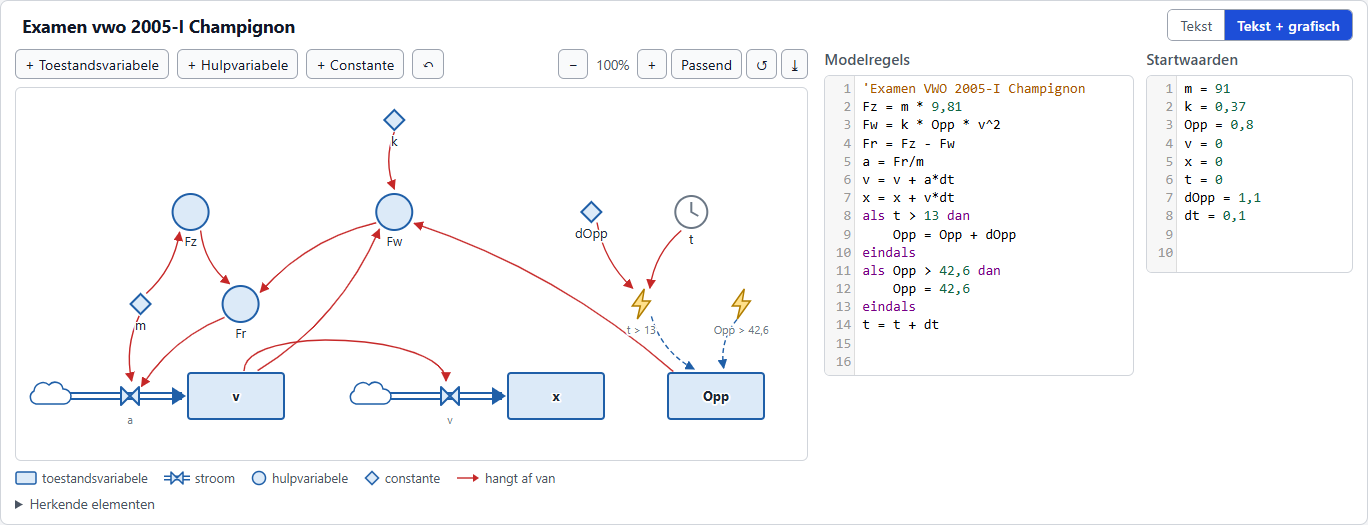
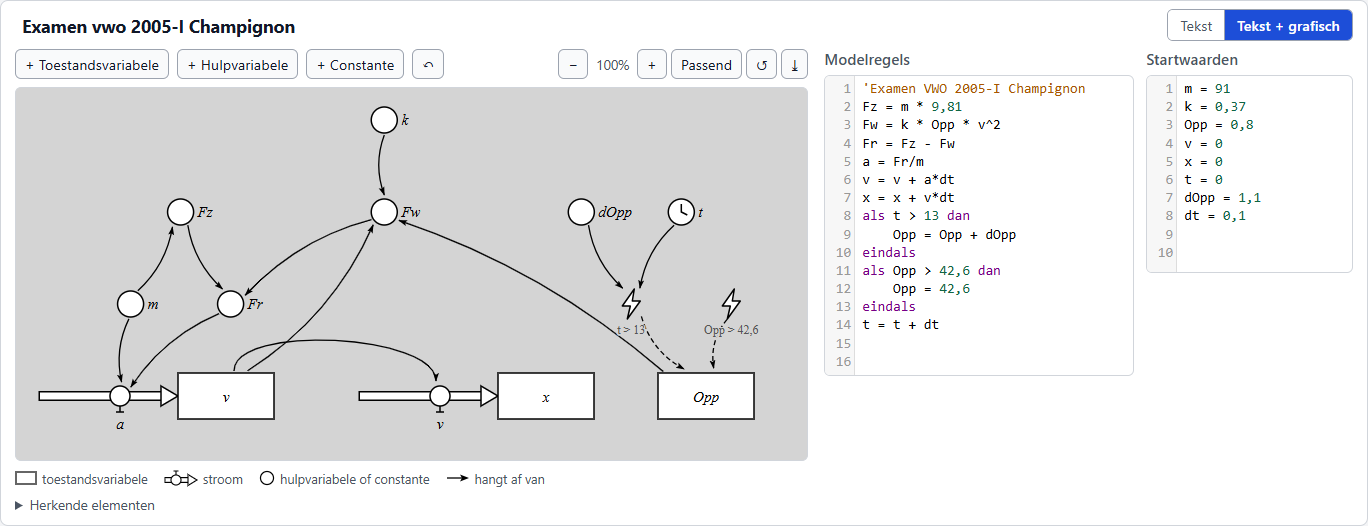
Grafisch model in examenstijl (vwo 2022-I, 2023-II)
De symbolen van het grafische model lijken nu op de figuren in de centrale
examens natuurkunde vwo in plaats van op Coach 7:

- grijze achtergrond, zwarte lijnen, witte symbolen
- toestandsvariabele: rechthoek zonder ronde hoeken, naam cursief erin
- stroom: holle pijl met open pijlpunt, geen wolkjes aan open uiteinden
- ventiel: cirkel met kraantje (kraantje onder als er een pijl van boven komt)
- hulpvariabele en constante: dezelfde cirkel, naam eronder (of rechts als
  een pijl aan de onderkant vertrekt of binnenkomt)
- relatiepijlen zwart met slanke pijlpunt

Legenda, README (tekst en screenshot) en CHANGELOG aangepast.

diff --git a/grafisch.js b/grafisch.js
@@ -1,9 +1,12 @@
 /*
     grafisch.js  (prototype)
 
-    Zet een tekstmodel (startwaarden + modelregels) om in een grafisch model,
-    zoals de grafische modus van Coach 7 (System Dynamics / stock-flow,
-    zie hoofdstuk 6 van de Coach 7 handleiding).
+    Zet een tekstmodel (startwaarden + modelregels) om in een grafisch model
+    (System Dynamics / stock-flow), getekend zoals de grafische modellen in de
+    centrale examens natuurkunde vwo (bijvoorbeeld 2022-I en 2023-II):
+    grijze achtergrond, toestandsvariabele als rechthoek, stroom als holle pijl
+    met een ventiel (cirkel met kraantje), hulpvariabelen en constanten als
+    cirkels met de naam eronder en zwarte relatiepijlen.
 
     Herkenning (Euler-vorm, zoals in de examenmodellen):
 
@@ -402,7 +405,7 @@ function analyse(startwaarden_ast, modelregels_ast) {
             if (d == dt) continue;
             if (d == time) showTime = true;
             else if (!elements.hasOwnProperty(idOf(d))) {
-                // Coach: element met vraagteken
+                // element met vraagteken
                 add({id: d, kind: 'unknown', name: d, definition: '? (geen startwaarde of formule)', deps: []});
             }
             var lk = idOf(d) + '>' + el.id;
@@ -759,7 +762,9 @@ function layout(g) {
 
 // ------------------------------------------------------------------ SVG
 
-var C = {blue: '#1f5fa8', fill: '#dceaf8', red: '#c62828', text: '#1d2733', grey: '#6b7785'};
+// examenstijl: zwart op wit, op een grijze achtergrond
+var C = {line: '#000', fill: '#fff', bg: '#d4d4d4', red: '#c62828', text: '#000', grey: '#555'};
+var R = {aux: 13, valve: 10};   // radius of the circles: hulpvariabele/constante and ventiel
 
 function esc(s) {
     return String(s).replace(/&/g, '&amp;').replace(/</g, '&lt;').replace(/>/g, '&gt;').replace(/"/g, '&quot;');
@@ -773,41 +778,50 @@ function radius(el, dx, dy) {
             var tx = Math.abs(dx) > 1e-9 ? (L.stockW / 2) / Math.abs(dx) : Infinity;
             var ty = Math.abs(dy) > 1e-9 ? (L.stockH / 2) / Math.abs(dy) : Infinity;
             return Math.min(tx, ty) * len + 3;
-        case 'flow': return 13;
-        case 'const': return 12;
+        case 'flow': return R.valve + 2;
         case 'event': return 16;
-        default: return 21;
+        default: return R.aux + 2;
     }
 }
 
-function cloud(x, y) {
-    return '<path d="M' + (x - 14) + ',' + (y + 8) +
-        ' a7,7 0 0,1 -2,-13 a9,9 0 0,1 15,-6 a8,8 0 0,1 14,4 a7,7 0 0,1 1,15 z"' +
-        ' fill="#fff" stroke="' + C.blue + '" stroke-width="1.5"/>';
+function pipeEnd(x, y) {
+    // the open end of a flow from or to outside the model (no cloud, as in the exams):
+    // an invisible area to drag it
+    return '<circle class="end" cx="' + x + '" cy="' + y + '" r="12" fill="#000" fill-opacity="0" stroke="none"/>';
 }
 
 function pipe(points, out) {
-    var d = 'M' + points[0].x + ',' + points[0].y;
-    for (var i = 1; i < points.length; i++) d += ' L' + points[i].x + ',' + points[i].y;
-    out.push('<path d="' + d + '" fill="none" stroke="' + C.blue + '" stroke-width="8" stroke-linejoin="round"/>');
-    out.push('<path d="' + d + '" fill="none" stroke="#fff" stroke-width="4" stroke-linejoin="round"/>');
-    // arrow head at the end
-    var p = points[points.length - 1], q = points[points.length - 2];
+    // hollow pipe (white with a black border) with an open arrow head at the end
+    var n = points.length, p = points[n - 1], q = points[n - 2];
     var ux = p.x - q.x, uy = p.y - q.y, l = Math.sqrt(ux * ux + uy * uy) || 1;
     ux /= l; uy /= l;
-    out.push('<path d="M' + (p.x + ux * 4) + ',' + (p.y + uy * 4) +
-        ' L' + (p.x - ux * 10 - uy * 9) + ',' + (p.y - uy * 10 + ux * 9) +
-        ' L' + (p.x - ux * 10 + uy * 9) + ',' + (p.y - uy * 10 - ux * 9) + ' z" fill="' + C.blue + '"/>');
+    var head = 17, half = 10;
+    var base = {x: p.x - ux * head, y: p.y - uy * head};
+    // closed start: the border goes a little further back than the white inside
+    var s0 = points[0], s1 = points[1];
+    var vx = s1.x - s0.x, vy = s1.y - s0.y, m = Math.sqrt(vx * vx + vy * vy) || 1;
+    var path = function(first) {
+        var d = 'M' + first.x.toFixed(1) + ',' + first.y.toFixed(1);
+        for (var i = 1; i < n - 1; i++) d += ' L' + points[i].x + ',' + points[i].y;
+        return d + ' L' + base.x.toFixed(1) + ',' + base.y.toFixed(1);
+    };
+    out.push('<path d="' + path({x: s0.x - vx / m * 1.5, y: s0.y - vy / m * 1.5}) +
+        '" fill="none" stroke="' + C.line + '" stroke-width="10" stroke-linejoin="round"/>');
+    out.push('<path d="' + path(s0) + '" fill="none" stroke="' + C.fill + '" stroke-width="7" stroke-linejoin="round"/>');
+    out.push('<path d="M' + p.x.toFixed(1) + ',' + p.y.toFixed(1) +
+        ' L' + (base.x - uy * half).toFixed(1) + ',' + (base.y + ux * half).toFixed(1) +
+        ' L' + (base.x + uy * half).toFixed(1) + ',' + (base.y - ux * half).toFixed(1) + ' z"' +
+        ' fill="' + C.fill + '" stroke="' + C.line + '" stroke-width="1.5" stroke-linejoin="miter"/>');
 }
 
 var LINK_STYLE = {
-    relation: 'stroke="' + C.red + '" stroke-width="1.4" marker-end="url(#ar)"',
+    relation: 'stroke="' + C.line + '" stroke-width="1.3" marker-end="url(#ar)"',
     // only in the condition of 'als ... dan': lighter
-    condition: 'stroke="' + C.red + '" stroke-width="1.1" stroke-opacity="0.45" stroke-dasharray="2 3" marker-end="url(#ar)"',
+    condition: 'stroke="' + C.line + '" stroke-width="1.1" stroke-opacity="0.45" stroke-dasharray="2 3" marker-end="url(#ar)"',
     // beginwaarde of a toestandsvariabele
     initial: 'stroke="' + C.grey + '" stroke-width="1.1" stroke-dasharray="4 3" marker-end="url(#ag)"',
     // voorval changes a toestandsvariabele
-    action: 'stroke="' + C.blue + '" stroke-width="1.4" stroke-dasharray="5 3" marker-end="url(#ab)"'
+    action: 'stroke="' + C.line + '" stroke-width="1.3" stroke-dasharray="5 3" marker-end="url(#ar)"'
 };
 
 function unit(a, b) {
@@ -841,20 +855,20 @@ function toSVG(g, lay, opts) {
         var a = f.from ? pos[f.from] : pos[f.id + ':src'];
         var b = f.to ? pos[f.to] : pos[f.id + ':dst'];
         var u0 = unit(a, v), u1 = unit(v, b);
-        var ra = f.from ? radius(g.elements[f.from], u0.x, u0.y) : 17;
-        var rb = f.to ? radius(g.elements[f.to], -u1.x, -u1.y) + 3 : 20;
+        var ra = f.from ? radius(g.elements[f.from], u0.x, u0.y) - 3 : 0;
+        var rb = f.to ? radius(g.elements[f.to], -u1.x, -u1.y) - 3 : 0;
         var start = {x: a.x + u0.x * ra, y: a.y + u0.y * ra}, end = {x: b.x - u1.x * rb, y: b.y - u1.y * rb};
         var straight = Math.abs(u0.x * u1.y - u0.y * u1.x) < 1e-3 && (u0.x * u1.x + u0.y * u1.y) > 0;
         pipe(straight ? [start, end] : [start, v, end], out);
         var ud = unit(a, b);
         valveDir[f.id] = Math.abs(ud.y) > Math.abs(ud.x) ? 'v' : 'h';
         if (!f.from) {
-            out.push('<g data-id="' + esc(f.id) + ':src">' + cloud(a.x, a.y) + '</g>');
-            grow(a.x, a.y, 22);
+            out.push('<g data-id="' + esc(f.id) + ':src">' + pipeEnd(a.x, a.y) + '</g>');
+            grow(a.x, a.y, 12);
         }
         if (!f.to) {
-            out.push('<g data-id="' + esc(f.id) + ':dst">' + cloud(b.x, b.y) + '</g>');
-            grow(b.x, b.y, 22);
+            out.push('<g data-id="' + esc(f.id) + ':dst">' + pipeEnd(b.x, b.y) + '</g>');
+            grow(b.x, b.y, 12);
         }
     }
 
@@ -885,6 +899,27 @@ function toSVG(g, lay, opts) {
         out.push('<path d="' + d + '" fill="none" ' + LINK_STYLE[lk.kind] + '/>');
     }
 
+    // a relatiepijl leaves or enters a circle at the bottom: its name goes to the right
+    // (otherwise below, as in the exams), so the arrow does not cross the name
+    var bottom = {}, above = {};
+    for (i = 0; i < g.links.length; i++) {
+        var from = pos[g.links[i].from], to = pos[g.links[i].to];
+        if (!from || !to) continue;
+        var dir = unit(from, to);
+        if (dir.y > 0.6) bottom[g.links[i].from] = true;
+        if (dir.y < -0.6) bottom[g.links[i].to] = true;
+        // an arrow between two symbols on the row of stocks and flows: arc from above
+        var row = function(e) { return e.kind == 'stock' || e.kind == 'flow'; };
+        if (dir.y > 0.3 || (row(g.elements[g.links[i].from]) && row(g.elements[g.links[i].to]) &&
+                            Math.abs(to.y - from.y) < 1)) above[g.links[i].to] = true;
+    }
+    var name = function(x, y, r, label, id) {
+        if (bottom[id]) grow(x + r + 4 + 8 * String(label).length, y, 4);
+        return bottom[id] ?
+            '<text x="' + (x + r + 4) + '" y="' + (y + 5) + '" class="name lbl">' + esc(label) + '</text>' :
+            '<text x="' + x + '" y="' + (y + r + 16) + '" text-anchor="middle" class="name lbl">' + esc(label) + '</text>';
+    };
+
     // symbols
     for (i = 0; i < g.order.length; i++) {
         id = g.order[i];
@@ -896,45 +931,42 @@ function toSVG(g, lay, opts) {
         var x = p.x, y = p.y, label = el.name || el.label;
         switch (el.kind) {
             case 'stock':
+                // rectangle, name inside (as in the exams)
                 out.push(tip + '<rect x="' + (x - L.stockW / 2) + '" y="' + (y - L.stockH / 2) + '" width="' + L.stockW +
-                    '" height="' + L.stockH + '" rx="3" fill="' + C.fill + '" stroke="' + C.blue + '" stroke-width="2"/>' +
-                    '<text x="' + x + '" y="' + (y + 5) + '" text-anchor="middle" font-weight="bold">' + esc(label) + '</text>');
+                    '" height="' + L.stockH + '" fill="' + C.fill + '" stroke="' + C.line + '" stroke-width="1.5"/>' +
+                    '<text x="' + x + '" y="' + (y + 6) + '" text-anchor="middle" class="name">' + esc(label) + '</text>');
                 grow(x, y, L.stockW / 2 + 4);
                 break;
             case 'flow':
-                out.push(tip + valve(x, y, valveDir[id]) +
-                    '<text x="' + x + '" y="' + (y + 28) + '" text-anchor="middle" class="small">' + esc(shorten(label)) + '</text>');
+                // ventiel: a circle on the pipe with a tap. An arrow from above: the tap below
+                var flip = above[id] && !bottom[id];
+                out.push(tip + valve(x, y, valveDir[id], flip) +
+                    name(x, flip && valveDir[id] != 'v' ? y + 7 : y, R.valve, shorten(label), id));
                 grow(x, y + 20, 30);
                 break;
             case 'aux':
-                out.push(tip + '<circle cx="' + x + '" cy="' + y + '" r="18" fill="' + C.fill + '" stroke="' + C.blue +
-                    '" stroke-width="2"' + (el.conditional ? ' stroke-dasharray="4 2"' : '') + '/>' +
-                    '<text x="' + x + '" y="' + (y + 34) + '" text-anchor="middle">' + esc(label) + '</text>');
-                grow(x, y + 10, 30);
-                break;
             case 'const':
-                out.push(tip + '<path d="M' + x + ',' + (y - 10) + ' L' + (x + 10) + ',' + y + ' L' + x + ',' + (y + 10) +
-                    ' L' + (x - 10) + ',' + y + ' z" fill="' + C.fill + '" stroke="' + C.blue + '" stroke-width="2"/>' +
-                    '<text x="' + x + '" y="' + (y + 26) + '" text-anchor="middle">' + esc(label) + '</text>');
+                // hulpvariabele and constante: the same circle in the exams, name below
+                out.push(tip + '<circle cx="' + x + '" cy="' + y + '" r="' + R.aux + '" fill="' + C.fill + '" stroke="' + C.line +
+                    '" stroke-width="1.5"' + (el.conditional ? ' stroke-dasharray="4 2"' : '') + '/>' + name(x, y, R.aux, label, id));
                 grow(x, y + 10, 30);
                 break;
             case 'event':
                 out.push(tip + '<path d="M' + (x + 3) + ',' + (y - 15) + ' L' + (x - 9) + ',' + (y + 2) + ' L' + (x - 1) + ',' + (y + 2) +
                     ' L' + (x - 4) + ',' + (y + 15) + ' L' + (x + 9) + ',' + (y - 3) + ' L' + (x + 1) + ',' + (y - 3) + ' z"' +
-                    ' fill="#ffe08a" stroke="#b07d00" stroke-width="1.5"/>' +
-                    '<text x="' + x + '" y="' + (y + 30) + '" text-anchor="middle" class="small">' + esc(shorten(el.condition, 22)) + '</text>');
+                    ' fill="' + C.fill + '" stroke="' + C.line + '" stroke-width="1.5" stroke-linejoin="round"/>' +
+                    '<text x="' + x + '" y="' + (y + 30) + '" text-anchor="middle" class="small lbl">' + esc(shorten(el.condition, 22)) + '</text>');
                 grow(x, y + 10, 40);
                 break;
             case 'time':
-                out.push(tip + '<circle cx="' + x + '" cy="' + y + '" r="16" fill="#fff" stroke="' + C.grey + '" stroke-width="2"/>' +
-                    '<path d="M' + x + ',' + (y - 10) + ' L' + x + ',' + y + ' L' + (x + 7) + ',' + (y + 4) + '" fill="none" stroke="' + C.grey + '" stroke-width="2"/>' +
-                    '<text x="' + x + '" y="' + (y + 32) + '" text-anchor="middle">' + esc(label) + '</text>');
+                out.push(tip + '<circle cx="' + x + '" cy="' + y + '" r="' + R.aux + '" fill="' + C.fill + '" stroke="' + C.line + '" stroke-width="1.5"/>' +
+                    '<path d="M' + x + ',' + (y - 8) + ' L' + x + ',' + y + ' L' + (x + 6) + ',' + (y + 3) + '" fill="none" stroke="' + C.line + '" stroke-width="1.5"/>' + name(x, y, R.aux, label, id));
                 grow(x, y + 10, 30);
                 break;
             default:   // unknown
-                out.push(tip + '<circle cx="' + x + '" cy="' + y + '" r="18" fill="#fdecea" stroke="' + C.red + '" stroke-width="2"/>' +
-                    '<text x="' + x + '" y="' + (y + 6) + '" text-anchor="middle" fill="' + C.red + '" font-weight="bold">?</text>' +
-                    '<text x="' + x + '" y="' + (y + 34) + '" text-anchor="middle">' + esc(label) + '</text>');
+                out.push(tip + '<circle cx="' + x + '" cy="' + y + '" r="' + R.aux + '" fill="' + C.fill + '" stroke="' + C.red + '" stroke-width="1.5"/>' +
+                    '<text x="' + x + '" y="' + (y + 5) + '" text-anchor="middle" fill="' + C.red + '" font-weight="bold">?</text>' +
+                    name(x, y, R.aux, label, id));
                 grow(x, y + 10, 30);
         }
         out.push('</g>');
@@ -958,28 +990,31 @@ function toSVG(g, lay, opts) {
     if (minX == Infinity) { minX = 0; minY = 0; maxX = 100; maxY = 50; }
     opts.used = {minX: minX, minY: minY, maxX: maxX, maxY: maxY};
     var pad = 12, w = maxX - minX + 2 * pad, h = maxY - minY + 2 * pad;
-    return '<svg xmlns="http://www.w3.org/2000/svg" viewBox="' + (minX - pad).toFixed(0) + ' ' + (minY - pad).toFixed(0) + ' ' +
+    var vbX = (minX - pad).toFixed(0), vbY = (minY - pad).toFixed(0);
+    // arrow head of a relatiepijl: slender, black (as in the exams)
+    var marker = function(mid, color) {
+        return '<marker id="' + mid + '" viewBox="0 0 12 10" refX="11" refY="5" markerWidth="9" markerHeight="7.5" ' +
+            'orient="auto-start-reverse" markerUnits="userSpaceOnUse"><path d="M0,1 L12,5 L0,9 L2.5,5 z" fill="' + color + '"/></marker>';
+    };
+    return '<svg xmlns="http://www.w3.org/2000/svg" viewBox="' + vbX + ' ' + vbY + ' ' +
         w.toFixed(0) + ' ' + h.toFixed(0) + '" width="' + w.toFixed(0) + '" height="' + h.toFixed(0) + '"' +
-        ' font-family="Segoe UI, Helvetica, Arial, sans-serif" font-size="13" fill="' + C.text + '">' +
-        '<style>text{paint-order:stroke;stroke:#fff;stroke-width:3px;stroke-linejoin:round}' +
-        '.small{font-size:11px;fill:' + C.grey + '}</style>' +
-        '<defs>' +
-        '<marker id="ar" viewBox="0 0 10 10" refX="9" refY="5" markerWidth="7" markerHeight="7" orient="auto-start-reverse">' +
-        '<path d="M0,0 L10,5 L0,10 z" fill="' + C.red + '"/></marker>' +
-        '<marker id="ab" viewBox="0 0 10 10" refX="9" refY="5" markerWidth="7" markerHeight="7" orient="auto-start-reverse">' +
-        '<path d="M0,0 L10,5 L0,10 z" fill="' + C.blue + '"/></marker>' +
-        '<marker id="ag" viewBox="0 0 10 10" refX="9" refY="5" markerWidth="7" markerHeight="7" orient="auto-start-reverse">' +
-        '<path d="M0,0 L10,5 L0,10 z" fill="' + C.grey + '"/></marker>' +
-        '</defs>' + out.join('') + '</svg>';
+        ' font-family="Times New Roman, Times, serif" font-size="15" fill="' + C.text + '">' +
+        '<style>.name{font-style:italic}' +
+        '.lbl{paint-order:stroke;stroke:' + C.bg + ';stroke-width:3px;stroke-linejoin:round}' +
+        '.small{font-size:12px;fill:' + C.grey + '}</style>' +
+        '<defs>' + marker('ar', C.line) + marker('ag', C.grey) + '</defs>' +
+        '<rect class="bg" x="' + vbX + '" y="' + vbY + '" width="' + w.toFixed(0) + '" height="' + h.toFixed(0) +
+        '" fill="' + C.bg + '"/>' + out.join('') + '</svg>';
 }
 
-function valve(x, y, dir) {
-    // bow tie across the pipe (dir: 'h' horizontal or 'v' vertical pipe)
-    var vertical = dir == 'v';
-    var d = vertical ?
-        'M' + (x - 9) + ',' + (y - 9) + ' L' + (x + 9) + ',' + (y - 9) + ' L' + (x - 9) + ',' + (y + 9) + ' L' + (x + 9) + ',' + (y + 9) + ' z' :
-        'M' + (x - 9) + ',' + (y - 9) + ' L' + (x + 9) + ',' + (y + 9) + ' L' + (x + 9) + ',' + (y - 9) + ' L' + (x - 9) + ',' + (y + 9) + ' z';
-    return '<path d="' + d + '" fill="' + C.fill + '" stroke="' + C.blue + '" stroke-width="2" stroke-linejoin="round"/>';
+function valve(x, y, dir, flip) {
+    // ventiel: circle on the pipe with a tap (dir: 'h' horizontal or 'v' vertical pipe;
+    // tap above or left, flip: below or right)
+    var r = R.valve, t = r + 6, sg = flip ? -1 : 1, d = dir == 'v' ?
+        'M' + (x - sg * r) + ',' + y + ' H' + (x - sg * t) + ' M' + (x - sg * t) + ',' + (y - 4) + ' V' + (y + 4) :
+        'M' + x + ',' + (y - sg * r) + ' V' + (y - sg * t) + ' M' + (x - 4) + ',' + (y - sg * t) + ' H' + (x + 4);
+    return '<circle cx="' + x + '" cy="' + y + '" r="' + r + '" fill="' + C.fill + '" stroke="' + C.line + '" stroke-width="1.5"/>' +
+        '<path d="' + d + '" fill="none" stroke="' + C.line + '" stroke-width="1.5"/>';
 }
 
 function shorten(s, n) {

diff --git a/index.html b/index.html
@@ -738,7 +738,8 @@
             max-height: 75vh;
             border: 1px solid var(--border);
             border-radius: 6px;
-            background: #fff;
+            /* grey, as the graphical models in the exams (and the background of the drawing) */
+            background: #d4d4d4;
             cursor: grab;
             /* pinch to zoom is done by the webapp, not by the browser */
             touch-action: pan-x pan-y;
@@ -797,7 +798,12 @@
         #grafisch_svg [data-id]:hover > rect,
         #grafisch_svg [data-id]:hover > circle,
         #grafisch_svg [data-id]:hover > path:first-of-type {
-            stroke-width: 3.5;
+            stroke-width: 3;
+        }
+
+        /* the open end of a flow (from or to outside the model) can be dragged, but is not drawn */
+        #grafisch_svg circle.end {
+            stroke: none !important;
         }
 
         /* the symbol of the line with the cursor in the editor */
@@ -1048,11 +1054,10 @@
                         <div id="grafisch_eigenschappen"></div>
                     </div>
                     <div class="grafisch_strook" aria-hidden="true">
-                        <span><svg width="22" height="14"><rect x="1" y="1" width="20" height="12" rx="2" fill="#dceaf8" stroke="#1f5fa8" stroke-width="1.5"/></svg>toestandsvariabele</span>
-                        <span><svg width="26" height="14"><path d="M0,7 H26" stroke="#1f5fa8" stroke-width="5"/><path d="M0,7 H26" stroke="#fff" stroke-width="2"/><path d="M7,1 L19,13 L19,1 L7,13 z" fill="#dceaf8" stroke="#1f5fa8" stroke-width="1.5" stroke-linejoin="round"/></svg>stroom</span>
-                        <span><svg width="16" height="16"><circle cx="8" cy="8" r="6.5" fill="#dceaf8" stroke="#1f5fa8" stroke-width="1.5"/></svg>hulpvariabele</span>
-                        <span><svg width="16" height="16"><path d="M8,1.5 L14.5,8 L8,14.5 L1.5,8 z" fill="#dceaf8" stroke="#1f5fa8" stroke-width="1.5"/></svg>constante</span>
-                        <span><svg width="24" height="10"><path d="M1,5 H19" stroke="#c62828" stroke-width="1.4"/><path d="M17,1 L23,5 L17,9 z" fill="#c62828"/></svg>hangt af van</span>
+                        <span><svg width="22" height="14"><rect x="1" y="1" width="20" height="12" fill="#fff" stroke="#000" stroke-width="1.2"/></svg>toestandsvariabele</span>
+                        <span><svg width="34" height="18"><path d="M0.5,11 H24" stroke="#000" stroke-width="6"/><path d="M1.5,11 H24" stroke="#fff" stroke-width="3.6"/><path d="M33,11 L24,5.5 L24,16.5 z" fill="#fff" stroke="#000" stroke-width="1.1"/><circle cx="12" cy="11" r="5" fill="#fff" stroke="#000" stroke-width="1.1"/><path d="M12,6 V2 M9.5,2 H14.5" stroke="#000" stroke-width="1.1"/></svg>stroom</span>
+                        <span><svg width="16" height="16"><circle cx="8" cy="8" r="6.5" fill="#fff" stroke="#000" stroke-width="1.2"/></svg>hulpvariabele of constante</span>
+                        <span><svg width="24" height="10"><path d="M1,5 H19" stroke="#000" stroke-width="1.3"/><path d="M14,1.5 L23,5 L14,8.5 L16,5 z" fill="#000"/></svg>hangt af van</span>
                     </div>
                     <div id="grafisch_melding" role="alert"></div>
                     <details class="grafisch_lijst">

diff --git a/modelleertaal-app.js b/modelleertaal-app.js
@@ -770,7 +770,7 @@ ModelleertaalApp.prototype.analyse_grafisch_model = function() {
 
 
 ModelleertaalApp.prototype.draw_grafisch_model = function() {
-  // draw the model as a Coach style stock-flow diagram (see grafisch.js)
+  // draw the model as a stock-flow diagram in the style of the exams (see grafisch.js)
   var svg = $(this.dom_grafisch_svg);
   var g;
   try {

diff --git a/README.md b/README.md
@@ -45,9 +45,11 @@ The webapp is made for students: you should be able to use it without a manual.
 
 [![The graphical model (stock-flow diagram) next to the text of the model](images/webapp-grafisch.png)](https://tomkooij.github.io/modelleertaal)
 
-Switch to **Tekst + grafisch** to see the model as a stock-flow diagram, like the graphical mode of Coach 7:
-*toestandsvariabelen* (rectangles), *stromen* (pipes with a valve), *hulpvariabelen* (circles),
-*constanten* (diamonds), *voorvallen* (lightning) and red arrows for "depends on".
+Switch to **Tekst + grafisch** to see the model as a stock-flow diagram, drawn like the graphical models
+in the central exams (vwo natuurkunde, for example 2022-I *Vrije worp bij basketbal* and 2023-II *Fietshelm*):
+black on a gray background, *toestandsvariabelen* (rectangles), *stromen* (hollow arrows with a valve: a
+circle with a tap), *hulpvariabelen* and *constanten* (circles, name below) and black arrows for
+"depends on". *Voorvallen* (`als ... dan` that changes a *toestandsvariabele*) are drawn as lightning.
 
 - The diagram is drawn from the text of the model, while you type. No Run needed.
 - **Text and diagram are linked.** Click a symbol and its lines in the text are marked. Put the cursor

diff --git a/CHANGELOG.md b/CHANGELOG.md
@@ -17,8 +17,11 @@
 - Fix: `N` in a link (`#model=...&N=100`) is no longer overruled by `N` in the
   model file.
 - New panel "Weergave als grafisch model": the text model is drawn as a
-  stock-flow diagram like the graphical mode of Coach 7 (toestandsvariabelen,
-  stromen, hulpvariabelen, constanten, voorvallen and relatiepijlen). Works
+  stock-flow diagram (toestandsvariabelen, stromen, hulpvariabelen, constanten,
+  voorvallen and relatiepijlen), drawn like the graphical models in the vwo
+  exams (2022-I, 2023-II): black on gray, a stroom is a hollow arrow with a
+  valve (circle with a tap), hulpvariabelen and constanten are circles with the
+  name below (or to the right, when an arrow leaves at the bottom). Works
   without Run and updates while typing. Elements can be dragged (arrows and
   pipes follow), "Herstel indeling" resets. Download as SVG. New module `grafisch.js`.
 - The graphical model is also input: click a symbol to change its name, formula,
